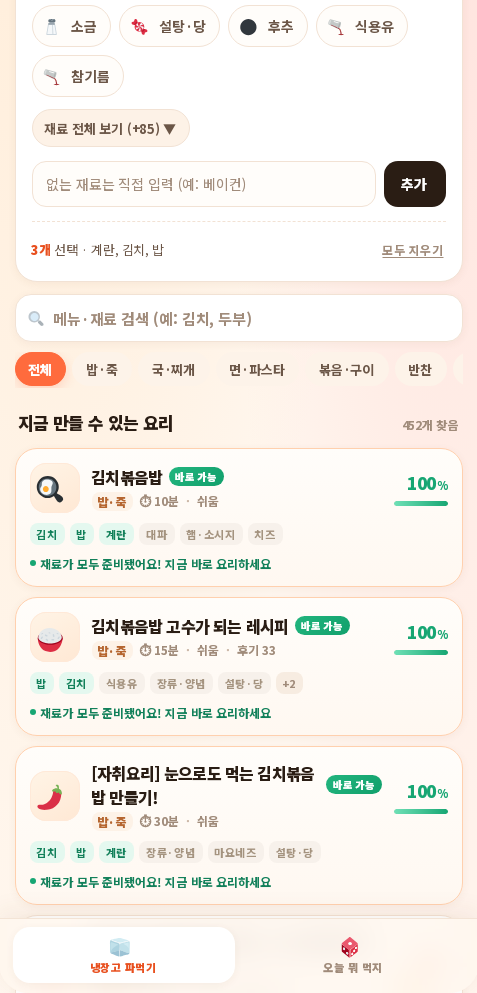
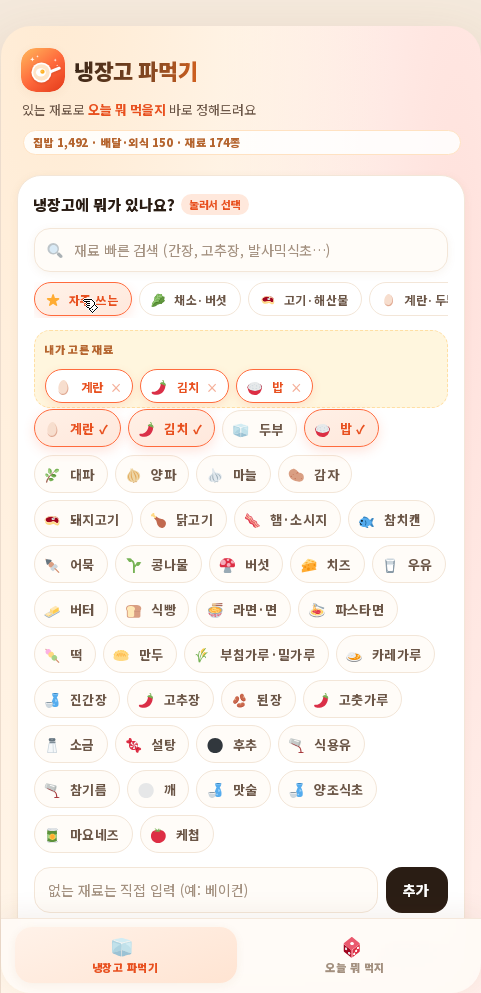
README: 실사용 스크린샷 갱신 (세분화 재료 탭·결과 카드·배달 룰렛)

diff --git a/README.md b/README.md
@@ -7,7 +7,11 @@
 
 <p align="center">
   <img src="docs/shot-fridge.png" width="46%" alt="냉장고 재료 매칭 화면" />
-  <img src="docs/shot-roulette.png" width="46%" alt="오늘 뭐 먹지 룰렛 결과 화면" />
+  <img src="docs/shot-ingredients.png" width="46%" alt="장류·소스 세분화 재료 탭" />
+</p>
+<p align="center">
+  <img src="docs/shot-recipes.png" width="46%" alt="재료 매칭 결과 카드" />
+  <img src="docs/shot-roulette.png" width="46%" alt="배달·외식 룰렛 결과" />
 </p>
 
 - 설치 없이 브라우저에서 바로 열립니다.
@@ -29,6 +33,8 @@
   - 양념·향신: 고춧가루·설탕·올리고당·꿀·매실청·맛술·깨·다시다·치킨스톡·전분·베이킹파우더 …
 - **재료 빠른 검색** — `냉장고에 뭐가 있나요?` 카드 안에서 "발사믹", "고추장"처럼 바로 찾아요
 - 고른 재료는 카드 위 **`내가 고른 재료` 줄**에 모여 보여서, 그룹을 옮겨 다녀도 한눈에 확인·해제할 수 있어요
+
+<p align="center"><img src="docs/shot-ingredients.png" width="52%" alt="장류·소스 22종" /></p>
 - 목록에 없는 재료는 **직접 입력**(예: 베이컨, 다진 마늘 → 자동으로 기존 재료와 연결)
 - 보유 재료 기준 **매칭률(%)** 순으로 요리 정렬, `바로 가능` 배지 표시
 - 부족한 재료를 `+ 대파`처럼 표시해서 **딱 무엇만 사면 되는지** 한눈에 보여요
